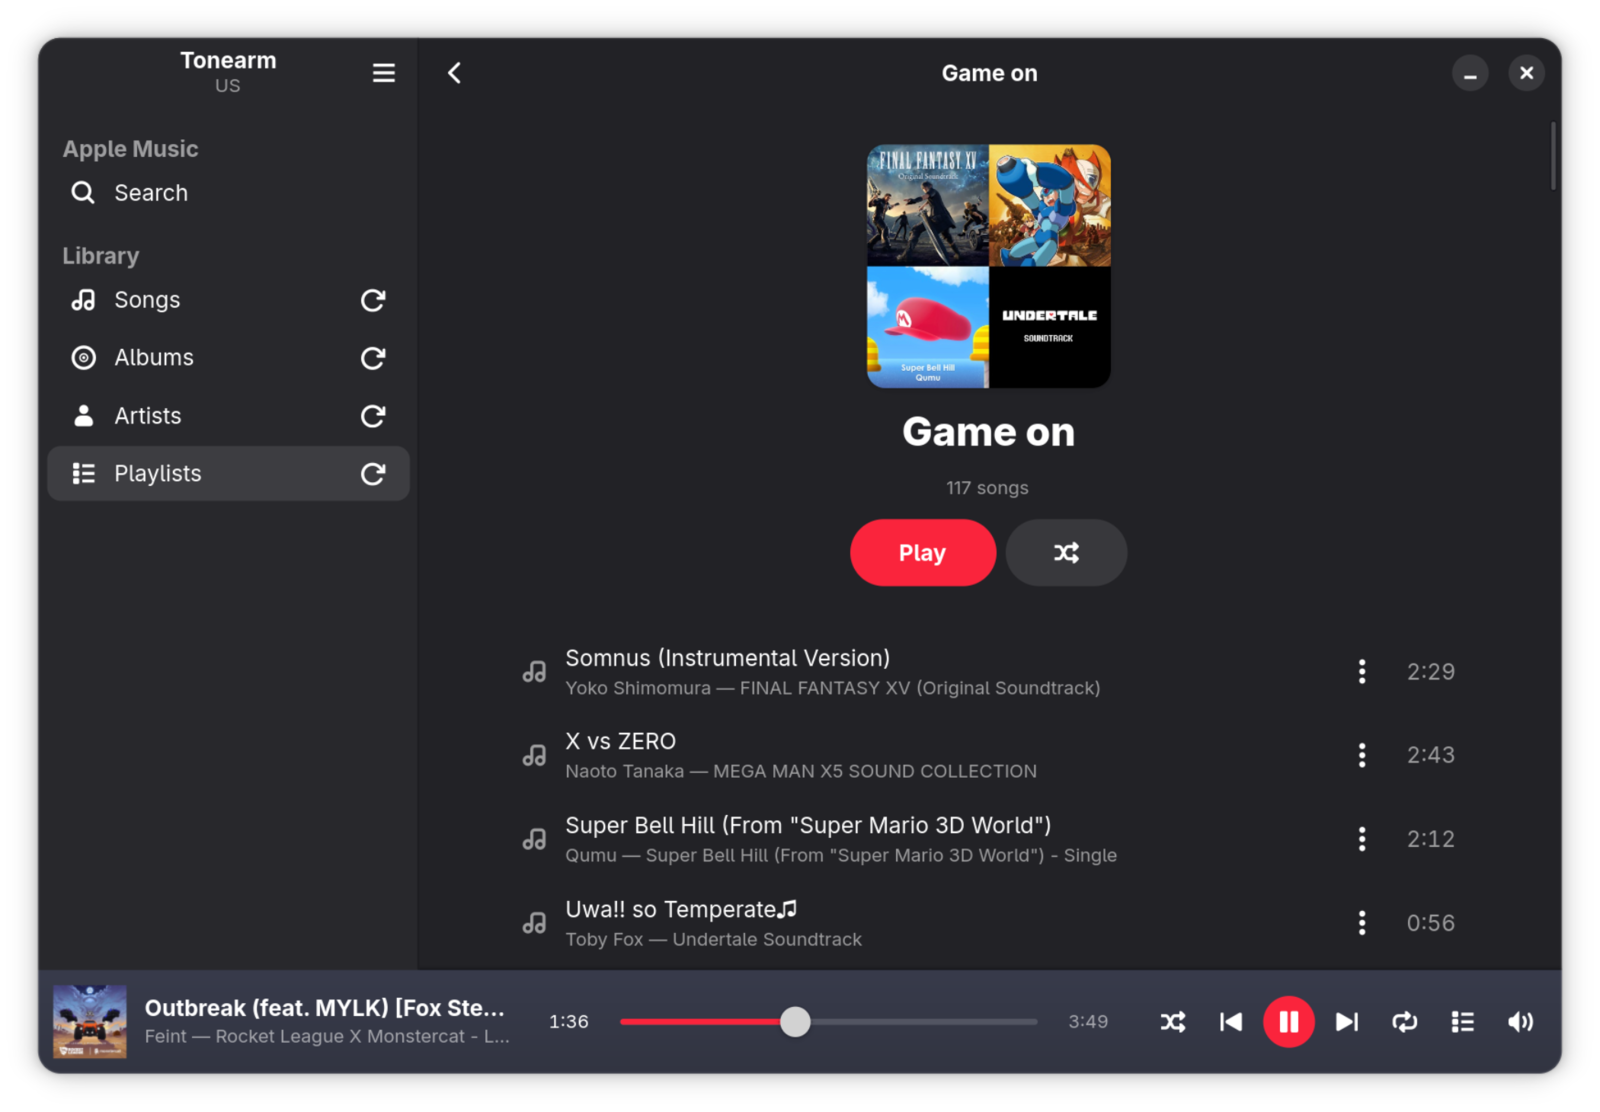
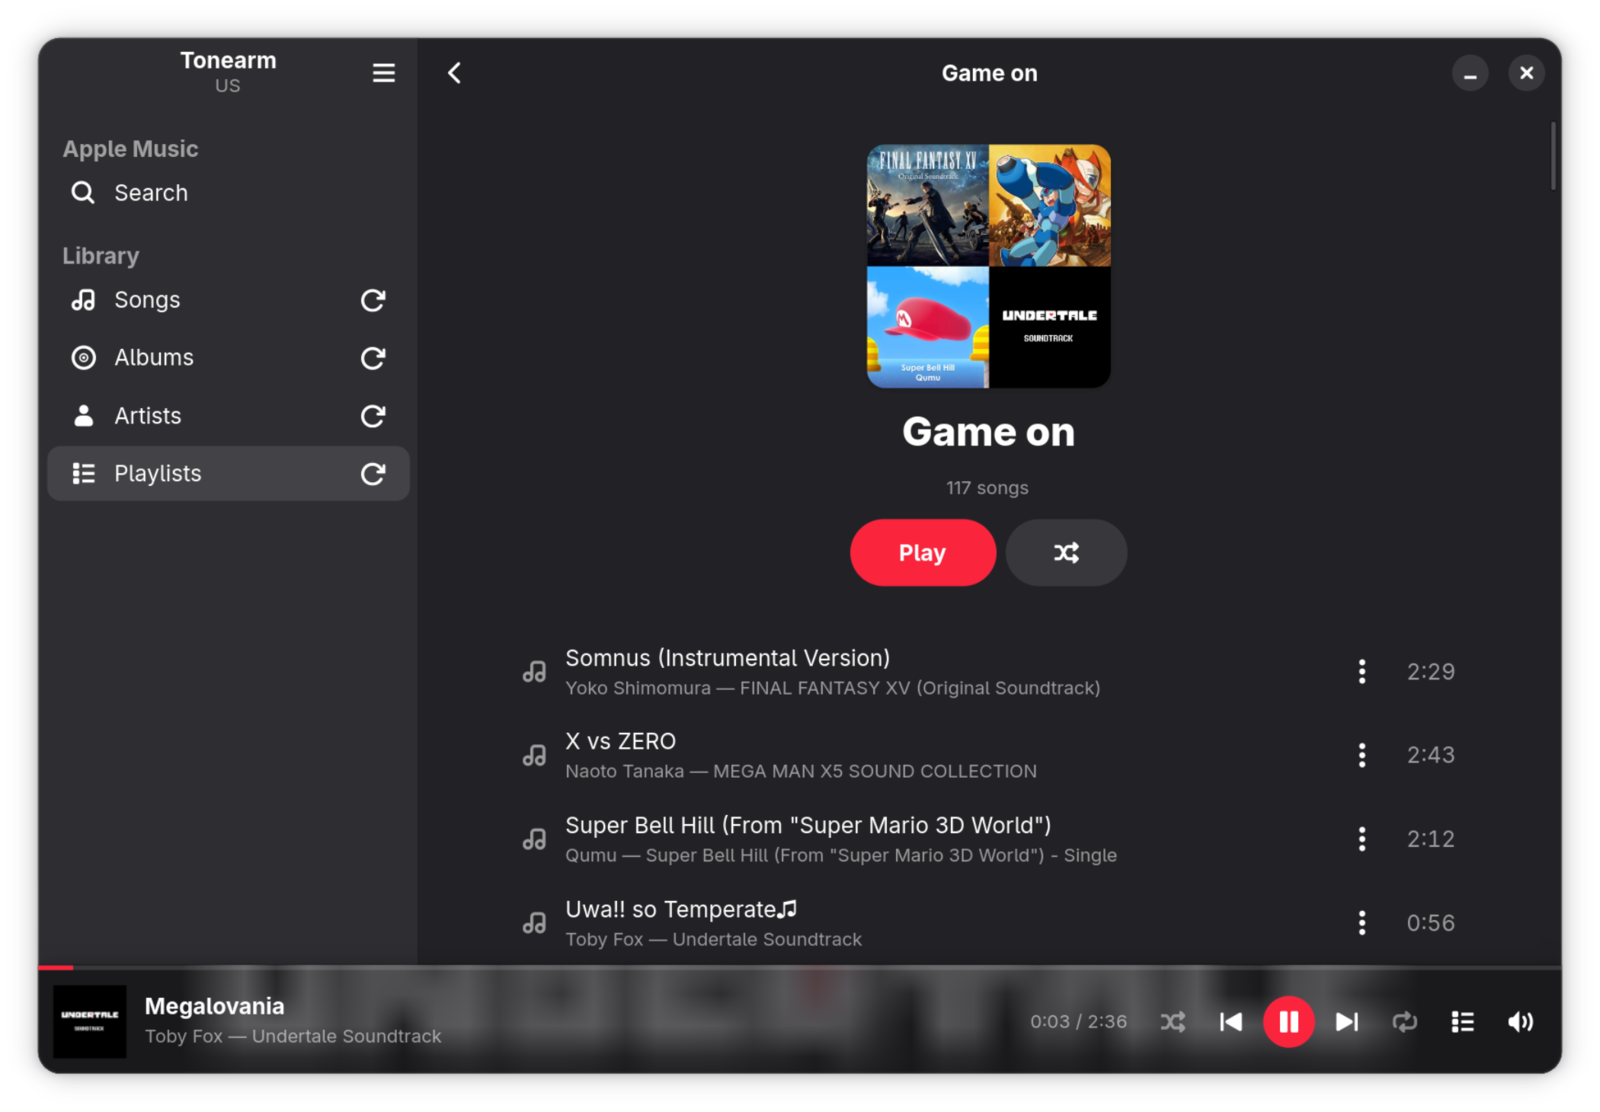
docs: screenshots for 0.2.0
Every shot in the old set was taken before the drawer, so all four showed
an app that no longer exists — a Now Playing bar with a seek scale in the
middle, and a queue in a sidebar that has since moved into the player.

One of them was worse than stale. `albums.webp` was captioned "with the
queue sidebar open beside it", and there is no queue sidebar any more.
A wrong caption is worse than an old picture, because a reader trusts it.

New: `player.webp`, the expanded player — large artwork, transport
beneath, the queue alongside, the cover blurred behind the whole surface.
That is the headline of this release and the README had no picture of it.

Processed by the recipe already written down in `docs/screenshots/`:
1600px wide, lossless WebP for the text-heavy shots so the glyphs stay
crisp, lossy at q92 for the two that are mostly album art. 770 KB for
five, all well inside the ~500 KB each budget.

The guide gains the lesson that caused this: when the UI moves, check the
captions as well as the images.

Changed region(s): [[0.0, 0.8561, 1.0, 0.9784]]

diff --git a/README.md b/README.md
@@ -19,9 +19,10 @@ GNOME search, and MPRIS that works in both directions.
 
 The web engine is still there. You just never see it.
 
-![Tonearm showing a library of songs: the playing track marked in the accent
-colour, a menu button on every row, and the Now Playing bar along the
-bottom](docs/screenshots/library.webp)
+![Tonearm showing a library of songs, each starred as a favourite, with a menu
+button on every row and the Now Playing bar along the bottom — the playing
+track's cover behind it, and its progress as a thin line across the
+top](docs/screenshots/library.webp)
 
 ## What it does
 
@@ -35,21 +36,29 @@ the way it was mastered to. This is measured, not hoped for — see
 playlists as grids. Type-to-find filtering on all four. Artist portraits come
 from Apple's catalogue, and covers are cached to disk as they scroll into view.
 
-![The Albums grid with the queue sidebar open beside it, 530 tracks deep and
-scrolled to the one playing](docs/screenshots/albums.webp)
+![The Albums grid, covers loading as tiles scroll into
+view](docs/screenshots/albums.webp)
 
 **The whole catalogue.** Search Apple Music, paginated as you scroll. Results
 mix artists and albums above the songs, and either one opens a page you can play
 from and drill through — artist → album → track.
 
-![A catalogue search for The Beatles: artists and albums above the songs, each
-with a chevron into its own page](docs/screenshots/search.webp)
+![An artist page reached from a catalogue search: the portrait, the genre, and
+25 albums each with a chevron into its own page](docs/screenshots/search.webp)
 
-![A playlist page: cover, track count, Play and Shuffle, and the tracks
-below](docs/screenshots/playlist.webp)
+![A playlist page: the four-up cover Apple builds from its tracks, the count,
+Play and Shuffle, and the tracks below](docs/screenshots/playlist.webp)
 
-**A queue you can see.** A sidebar rather than a modal, opening on the track
-that is playing. Jump to any track, remove any track, without disturbing
+**The player opens out.** Drag the Now Playing bar up, or press the queue
+button, and it becomes a full player: the artwork large, the transport under it,
+and the queue beside it. The cover sits behind the whole thing, blurred and
+drifting, and cross-fades when the track changes.
+
+![The expanded player: large artwork, transport beneath it, the queue alongside,
+and the cover blurred behind the whole surface](docs/screenshots/player.webp)
+
+**A queue you can see.** Inside that player rather than a modal, opening on the
+track that is playing. Jump to any track, remove any track, without disturbing
 playback. Right-click any row — or use its menu button — to play it next, add
 it to the queue, save it to your library or favourite it.
 

diff --git a/docs/screenshots/README.md b/docs/screenshots/README.md
@@ -20,10 +20,11 @@ rsvg-convert -w 128 -h 128 \
 
 | File | Shows |
 | --- | --- |
-| `library.webp` | Songs — playing track marked, row menus, sidebar reload |
-| `search.webp` | A catalogue search: artists and albums above songs |
-| `albums.webp` | The Albums grid with the queue sidebar open |
+| `library.webp` | Songs — favourites, row menus, sidebar reload |
+| `search.webp` | An artist page reached from a catalogue search |
+| `albums.webp` | The Albums grid |
 | `playlist.webp` | A playlist page: cover, Play and Shuffle, tracks |
+| `player.webp` | The expanded player: artwork, transport, queue |
 
 ## Taking them
 
@@ -36,9 +37,15 @@ rsvg-convert -w 128 -h 128 \
   bar reading "Nothing playing" undersells every screenshot it appears in, and a
   different track in each one reads as four unrelated apps.
 - Avoid a half-loaded state: no spinners, no placeholder covers.
-- Show what is *new*. The accent colour, the tinted Now Playing bar and the row
-  menus are the things a returning reader will notice; a shot that could have
-  been taken three versions ago is a wasted one.
+- Show what is *new*. A shot that could have been taken three versions ago is a
+  wasted one.
+
+  This matters more than it sounds. The 0.1 set went stale in one release and
+  in a way that was actively misleading: `albums.webp` was captioned "with the
+  queue sidebar open", and by 0.2 the queue had moved into the player and no
+  sidebar existed. A screenshot outlives the sentence next to it, so when the
+  UI moves, **check the captions as well as the images** — a wrong caption is
+  worse than an old picture, because a reader trusts it.
 
 ## Processing
 
